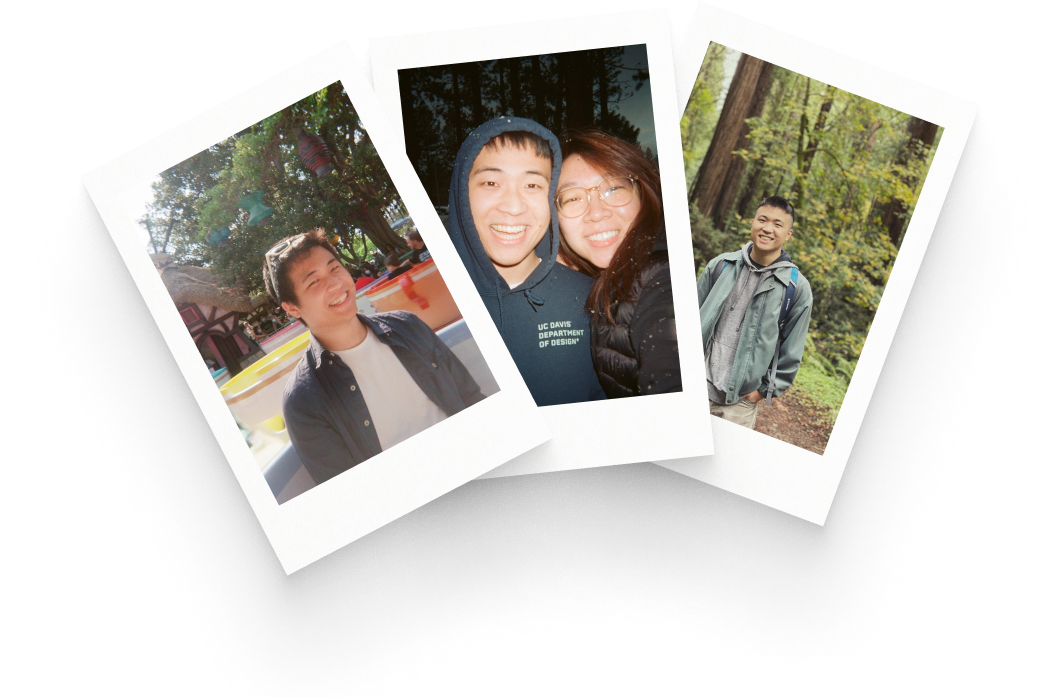
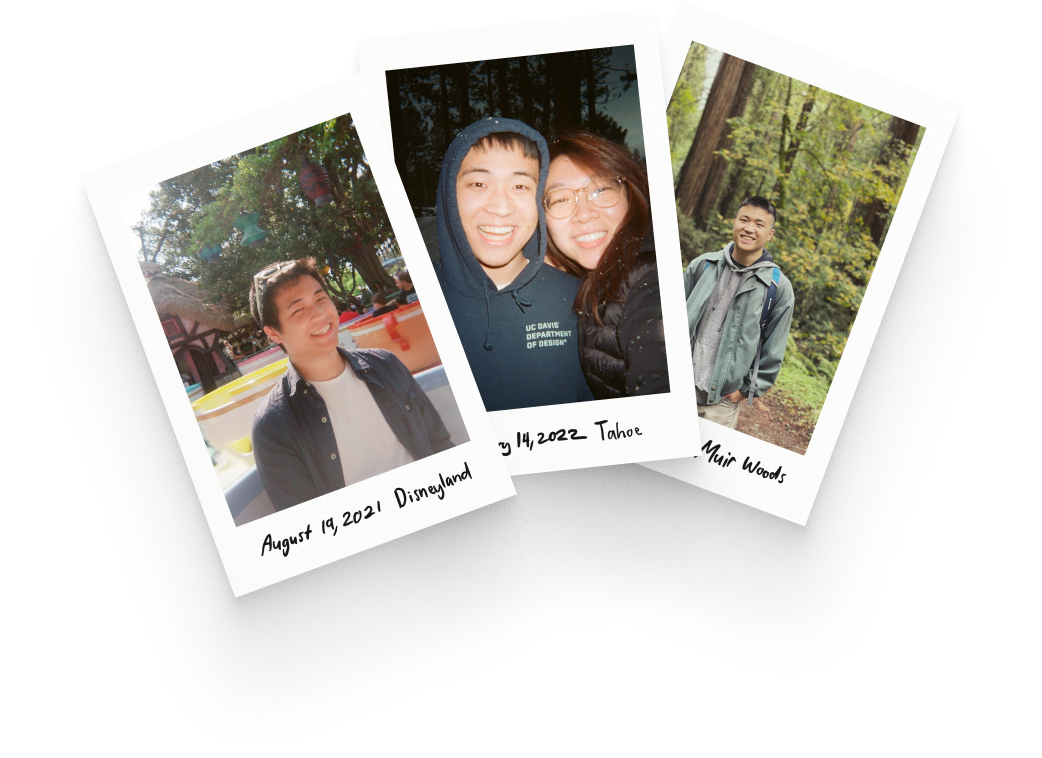
update nav + polaroid

Changed region(s): [[0.1228, 0.0602, 0.9213, 0.8424]]

diff --git a/newNav.css b/newNav.css
@@ -1,103 +1,85 @@
-
-/* NAVBAR STYLING STARTS */
-.navbar {
+nav {
     display: flex;
     align-items: center;
     justify-content: space-between;
-    padding: 20px;
-    background-color: teal;
-    color: #fff;
-   }
-   .nav-links a {
-    color: #fff;
-   }
-   /* LOGO */
-   .logo {
-    font-size: 32px;
-   }
-   /* NAVBAR MENU */
-   .menu {
-    display: flex;
-    gap: 1em;
-    font-size: 18px;
-   }
-   .menu li:hover {
-    background-color: #4c9e9e;
-    border-radius: 5px;
-    transition: 0.3s ease;
-   }
-   .menu li {
-    padding: 5px 14px;
-   }
-   /* DROPDOWN MENU */
-   .services {
-    position: relative; 
-   }
-   .dropdown {
-    background-color: rgb(1, 139, 139);
-    padding: 1em 0;
-    position: absolute; /*WITH RESPECT TO PARENT*/
-    display: none;
-    border-radius: 8px;
-    top: 35px;
-   }
-   .dropdown li + li {
-    margin-top: 10px;
-   }
-   .dropdown li {
-    padding: 0.5em 1em;
-    width: 8em;
-    text-align: center;
-   }
-   .dropdown li:hover {
-    background-color: #4c9e9e;
-   }
-   .services:hover .dropdown {
-    display: block;
-   }
-   
-   /*RESPONSIVE NAVBAR MENU STARTS*/
-   /* CHECKBOX HACK */
-   input[type=checkbox]{
-    display: none;
-   } 
-   /*HAMBURGER MENU*/
-   .hamburger {
-    display: none;
-    font-size: 20px;
-    user-select: none;
-   }
+    padding: 40px;
+    background-color: white;
+    color: #C4C4C4;
+    height: 90px;
+    /* border-bottom: solid 1px #B3B3B3; */
+    box-sizing: border-box;
+    margin-bottom: 80px;
+}
 
-   @media screen and (max-width: 600px) {
-    .menu { 
-display:none;
-position: absolute;
-background-color:teal;
-right: 0;
-left: 0;
-text-align: center;
-padding: 16px 0;
+nav li{
+    font-style: normal;
+    font-weight: normal;
+    font-size: 18px;
+    line-height: 27px;
 }
-.menu li:hover {
-display: inline-block;
-background-color:#4c9e9e;
-transition: 0.3s ease;
+
+#nav-links a {
+    color: black;
+    text-decoration: none;
 }
-.menu li + li {
-margin-top: 12px;
+
+/* Menu elements - work, about, resume */
+#menu {
+    display: flex;
+    gap: 20px;
 }
-input[type=checkbox]:checked ~ .menu{
-display: block;
+
+#menu li a{
+    transition: 0.5s ;
+
 }
-.hamburger {
-display: block;
+#menu li a:hover {
+    color: #18A0FB;
+    border-radius: 5px;
 }
-.dropdown {
-left: 50%;
-top: 30px;
-transform: translateX(35%);
+
+#menu li {
+    padding: 5px 14px;
 }
-.dropdown li:hover {
-background-color: #4c9e9e;
+
+/* Checkbox hack */
+input[type=checkbox]{
+    display: none;
+} 
+
+/*Hamburger*/
+#hamburger {
+    display: none;
+    font-size: 48px;
+    user-select: none;
 }
-   }
+
+
+@media screen and (max-width: 600px) {
+#menu { 
+    display:none;
+    position: absolute;
+    background-color: rgba(0, 0, 0, 0.8);
+    /* background-color: #18A0FB; */
+    right: 0;
+    left: 0;
+    text-align: center;
+    padding: 20px 0;
+    margin-top: 10px;
+}
+    #menu li{
+        padding: 12px;
+    }
+
+    #menu li a {
+        color: white;    
+    }
+    
+    input[type=checkbox]:checked ~ #menu{
+        display: block;
+    }
+    
+    #hamburger {
+        display: block;
+    }
+}

diff --git a/newAbout.html b/newAbout.html
@@ -7,7 +7,7 @@
   <meta property="og:image" content="img/preview.png">
   <link rel="icon" type="image/png" href="img/logo.png">
 
-  <!-- <link rel="stylesheet" type="text/css" href="style.css"> -->
+  <link rel="stylesheet" type="text/css" href="newNav.css">
   <link href="https://fonts.googleapis.com/css2?family=Poppins:wght@400;500;600&display=swap" rel="stylesheet">
   <script type="text/javascript" src="https://ajax.googleapis.com/ajax/libs/jquery/2.1.3/jquery.min.js"></script>
   <script type="text/javascript" src="https://ajax.googleapis.com/ajax/libs/jqueryui/1.11.3/jquery-ui.min.js"></script>
@@ -36,7 +36,11 @@
       line-height: 28px;
       margin-bottom: -8px;
     }
-
+    
+    a{
+      text-decoration: none;
+    }
+    
     p{
       font-style: normal;
       font-weight: normal;
@@ -207,7 +211,6 @@
       }
 
       #hobbies-polaroids #polaroids{
-        /* z-index: 2; */
         position: relative;
         right: 0px;
         top: 0px;
@@ -235,14 +238,35 @@
 </head>
 
 <body>
+  <nav>
+      <!-- MK Logo -->
+      <img src = "img/logo.png" height = "60" width = "60" id = "logo">
+    
+      <!-- Nav links -->
+      <ul id = "nav-links">
+
+      <!-- Checkbox hack for mobile -->
+      <input type = "checkbox" id = "checkbox_toggle" />
+      <label for = "checkbox_toggle" id = "hamburger">&#9776;</label>
+
+      <!-- Nav menues -->
+        <div id = "menu">
+          <li><a href="index.html"  class = "active-nav">Work</a></li>
+          <li><a href="newAbout.html" style = "color: #18A0FB; font-weight: 600;">About</a></li>
+          <li><a href="https://drive.google.com/file/d/1FhDiI5sC_muCGADNnV9m1qXDy_I9njyE/view" target="_blank">Resume</a></li>
+        </div>
+      </ul>
+  </nav>
+
   <section id = "heading">
     <div id = "heading-content-wrapper">
       <div>
         <p id= "name">Hi, I'm Matthew!</p>
         <p>I’m a Product Designer focused on creating visual, user-centric designs that improve the world.</p>
-        <p>I’ve always had a passion for technology, but it wasn’t until my first coding class in high-school that I found a passion for design. 
-          Progressively developing my own websites taught me both visual design and how to code. This newfound love of connecting design and 
-          development together is how I discovered UI/UX Design. </p>
+        <p>I’ve always had a passion for technology, but it wasn’t until my first web-development class in 
+          high-school that I found a passion for design. Falling in love with creating websites, 
+          taught me both visual design and web development skills. This newfound intersection of 
+          design and development together is how I discovered UI/UX Design.</p>
       </div>
     </div>
   
